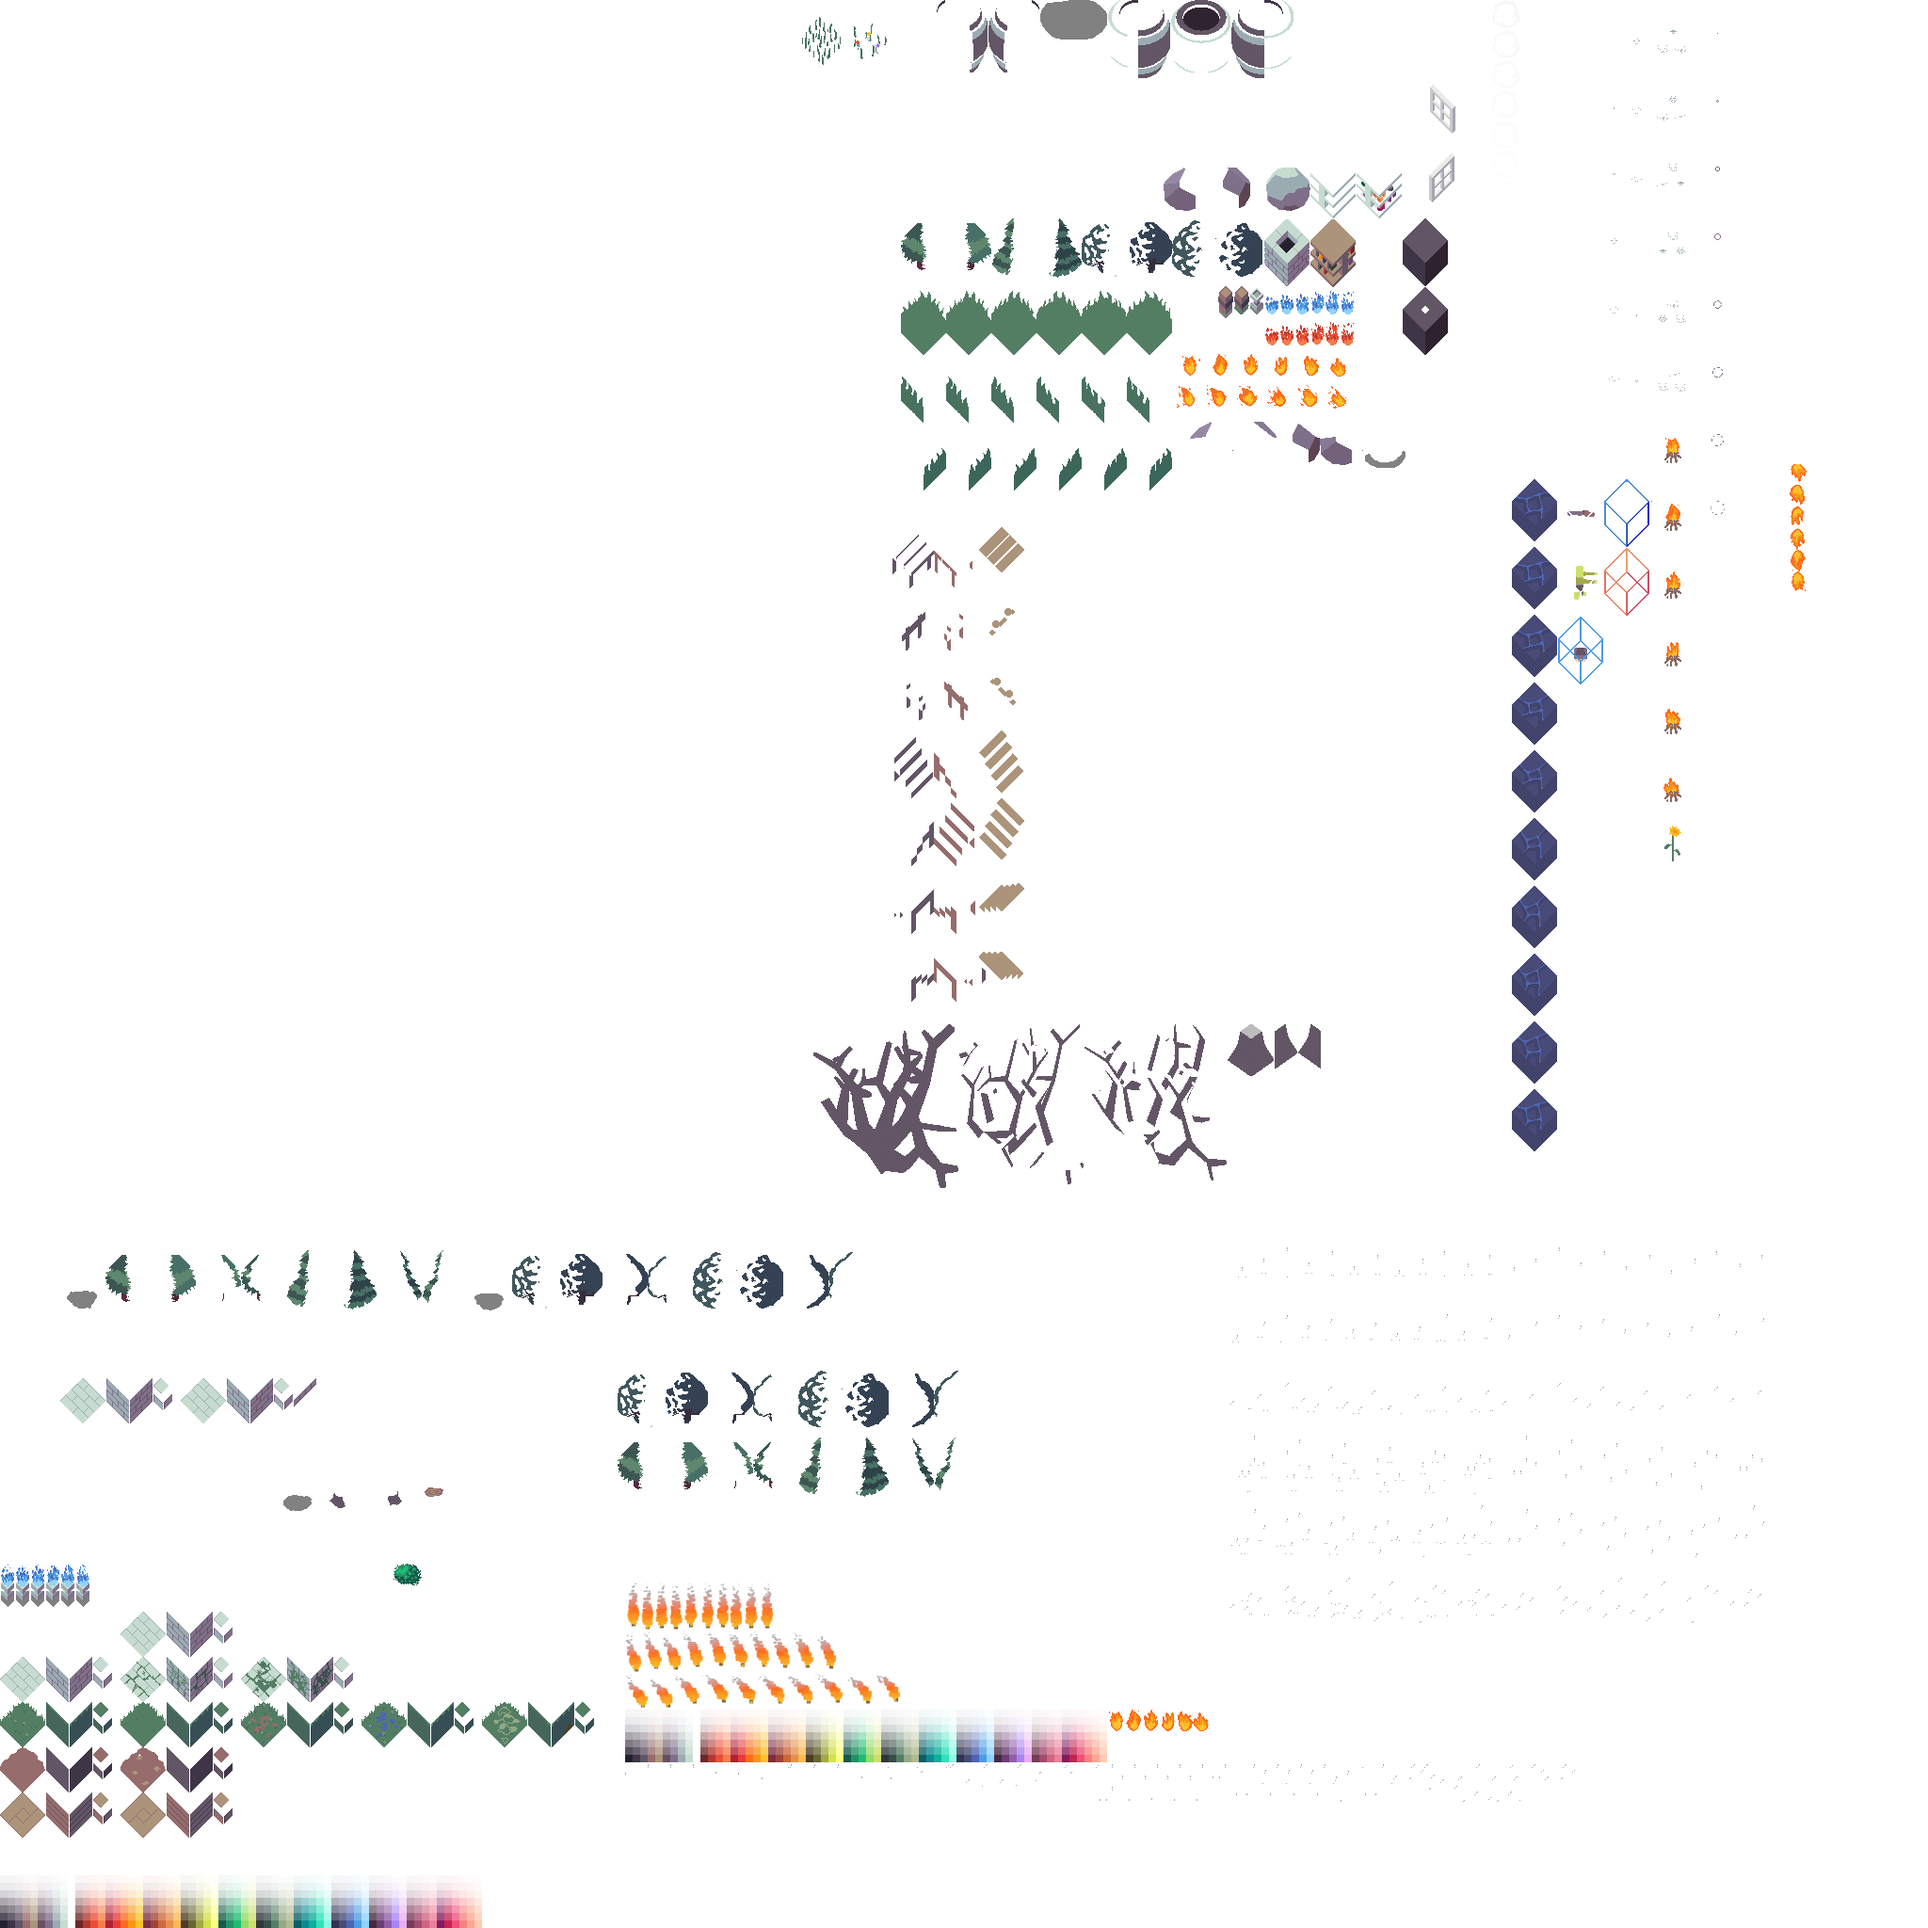
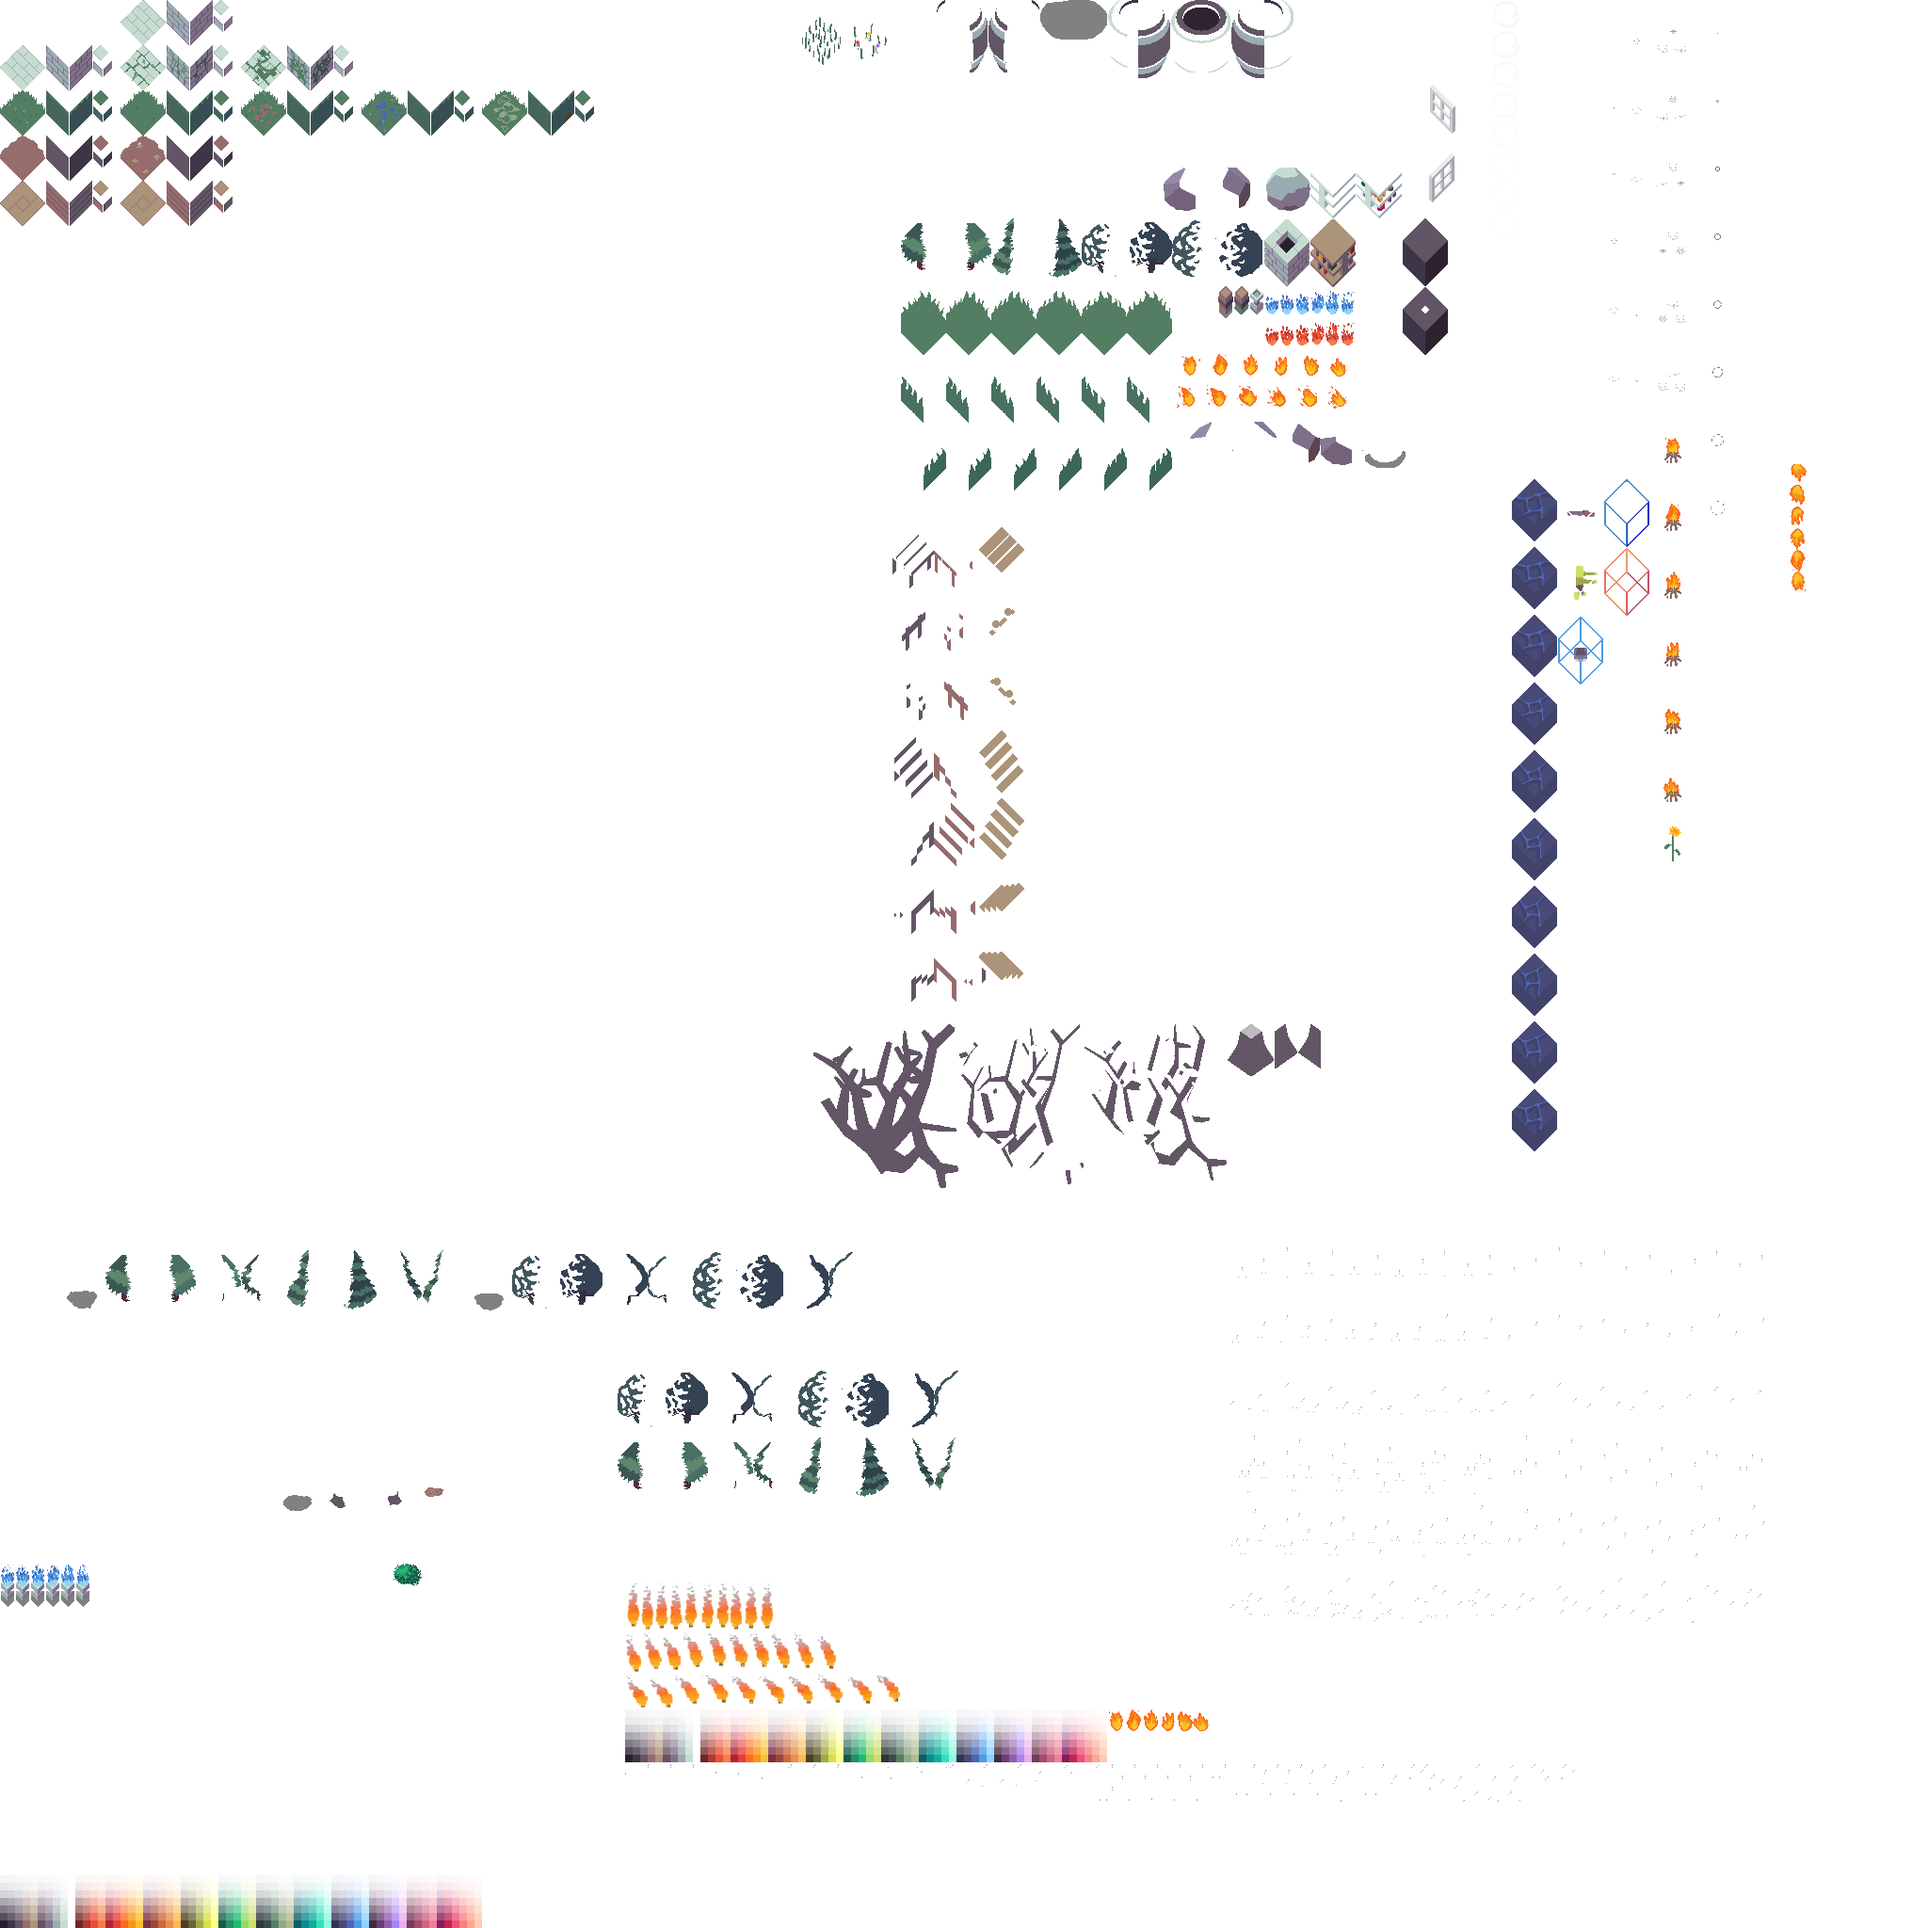
0.8.3023

Changed region(s): [[0.0, 0.8438, 0.3125, 0.9688], [0.0, 0.0, 0.3125, 0.125], [0.0312, 0.7188, 0.1562, 0.75]]

diff --git a/amulet_flutter/lib/gamestream/isometric/atlases/atlas_src_nodes_y.dart b/amulet_flutter/lib/gamestream/isometric/atlases/atlas_src_nodes_y.dart
@@ -1,8 +1,8 @@
 import 'package:amulet_engine/packages/common.dart';
 
 const nodeTypeSrcY = <int, double> {
-  NodeType.Brick: 1760,
-  NodeType.Grass: 1808,
-  NodeType.Soil: 1856,
-  NodeType.Wood: 1904,
+  NodeType.Brick: 48,
+  NodeType.Grass: 96,
+  NodeType.Soil: 144,
+  NodeType.Wood: 192,
 };
